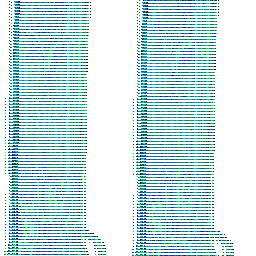
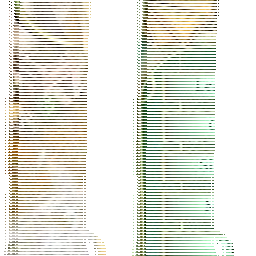
fix(ui): resolve pregame menu graphical corruption and support RGB444 DDT palettes

Changed region(s): [[0.5, 0.0, 0.9062, 1.0], [0.0, 0.0, 0.4062, 1.0]]

diff --git a/src/engine/engine_menus.cpp b/src/engine/engine_menus.cpp
@@ -1286,17 +1286,42 @@ size_t Engine::show_ui_layout(const std::string& layout_name) {
             return rt;
         }
 
-        // 2) Normalizar: NÃO converter \ → / aqui. O BarArchive::normalize()
-        //    já trata barras invertidas e barras normais de forma bidirecional.
-        //    Apenas garantir extensão .ddt.
+        // 2) Tentar carregar de PNG limpo em assets/titans_menu_parts/ para texturas ui_pregame
+        std::string png_name = name;
+        if (png_name.rfind("ui\\", 0) == 0 || png_name.rfind("ui/", 0) == 0) {
+            png_name = png_name.substr(3);
+        }
+        for (char& c : png_name) {
+            if (c == ' ' || c == '\\' || c == '/') c = '_';
+            else c = static_cast<char>(std::tolower(static_cast<unsigned char>(c)));
+        }
+        if (png_name.size() < 4 || png_name.substr(png_name.size() - 4) != ".png") {
+            png_name += ".png";
+        }
+
+        int pw = 0, ph = 0;
+        TextureHandle h = INVALID_TEXTURE;
+        if (png_name.rfind("ui_pregame", 0) == 0) {
+            h = load_png_asset("titans_menu_parts/" + png_name, &pw, &ph);
+            if (h != INVALID_TEXTURE) {
+                rt.handle = h;
+                rt.width = static_cast<uint32_t>(pw);
+                rt.height = static_cast<uint32_t>(ph);
+                texture_cache_[name] = h;
+                texture_dimensions_[name] = glm::ivec2(pw, ph);
+                LOGI("UI texture resolved from PNG asset: '%s' -> '%s' (handle=%u, %ux%u)",
+                     name.c_str(), png_name.c_str(), h, pw, ph);
+                return rt;
+            }
+        }
+
+        // 3) Normalizar e carregar de textures_bar_ (UI textures ficam em textures.bar, não data.bar)
         std::string normalized = name;
         if (normalized.size() < 4 ||
             normalized.substr(normalized.size() - 4) != ".ddt") {
             normalized += ".ddt";
         }
-
-        // 3) Carregar de textures_bar_ (UI textures ficam em textures.bar, não data.bar)
-        TextureHandle h = load_ddt_texture(normalized);
+        h = load_ddt_texture(normalized);
         if (h != INVALID_TEXTURE) {
             rt.handle = h;
             auto dit = texture_dimensions_.find(normalized);
@@ -1308,36 +1333,25 @@ size_t Engine::show_ui_layout(const std::string& layout_name) {
             texture_dimensions_[name] = texture_dimensions_[normalized];
             LOGI("UI texture resolved: '%s' -> '%s' (handle=%u, %ux%u)",
                  name.c_str(), normalized.c_str(), h, rt.width, rt.height);
+            return rt;
+        }
+
+        // 4) Fallback geral para qualquer outro PNG em assets
+        h = load_png_asset("titans_menu_parts/" + png_name, &pw, &ph);
+        if (h == INVALID_TEXTURE) {
+            h = load_png_asset(png_name, &pw, &ph);
+        }
+        if (h != INVALID_TEXTURE) {
+            rt.handle = h;
+            rt.width = static_cast<uint32_t>(pw);
+            rt.height = static_cast<uint32_t>(ph);
+            texture_cache_[name] = h;
+            texture_dimensions_[name] = glm::ivec2(pw, ph);
+            LOGI("UI texture resolved from PNG asset: '%s' -> '%s' (handle=%u, %ux%u)",
+                 name.c_str(), png_name.c_str(), h, pw, ph);
         } else {
-            // 4) Se não encontrou no BAR, tentar carregar de PNG em assets (ex: titans_menu_parts/)
-            std::string png_name = name;
-            if (png_name.rfind("ui\\", 0) == 0 || png_name.rfind("ui/", 0) == 0) {
-                png_name = png_name.substr(3);
-            }
-            for (char& c : png_name) {
-                if (c == ' ' || c == '\\' || c == '/') c = '_';
-                else c = static_cast<char>(std::tolower(static_cast<unsigned char>(c)));
-            }
-            if (png_name.size() < 4 || png_name.substr(png_name.size() - 4) != ".png") {
-                png_name += ".png";
-            }
-            int pw = 0, ph = 0;
-            h = load_png_asset("titans_menu_parts/" + png_name, &pw, &ph);
-            if (h == INVALID_TEXTURE) {
-                h = load_png_asset(png_name, &pw, &ph);
-            }
-            if (h != INVALID_TEXTURE) {
-                rt.handle = h;
-                rt.width = static_cast<uint32_t>(pw);
-                rt.height = static_cast<uint32_t>(ph);
-                texture_cache_[name] = h;
-                texture_dimensions_[name] = glm::ivec2(pw, ph);
-                LOGI("UI texture resolved from PNG asset: '%s' -> '%s' (handle=%u, %ux%u)",
-                     name.c_str(), png_name.c_str(), h, pw, ph);
-            } else {
-                LOGE("UI texture NOT FOUND: '%s' (tried '%s', '%s')",
-                     name.c_str(), normalized.c_str(), png_name.c_str());
-            }
+            LOGE("UI texture NOT FOUND: '%s' (tried '%s', '%s')",
+                 name.c_str(), normalized.c_str(), png_name.c_str());
         }
         return rt;
     };

diff --git a/src/assets/ddt_texture.cpp b/src/assets/ddt_texture.cpp
@@ -400,8 +400,22 @@ std::vector<uint8_t> DdtTexture::decode_rgba(uint32_t mip_level) const {
                 return {};
             }
             const size_t num_colors = palette.size() / 2;
+            uint16_t max_val = 0;
+            for (size_t c = 0; c < num_colors; ++c) {
+                uint16_t v = read_u16(palette.data() + c * 2);
+                if (v > max_val) max_val = v;
+            }
+            const bool is_rgb444 = (max_val <= 0x0FFF && max_val > 0x001F);
+
             const bool has_alpha4 = (alpha_bits == 4 && mip.data.size() >= pixel_count + (pixel_count + 1) / 2);
             const uint8_t* a4 = has_alpha4 ? (mip.data.data() + pixel_count) : nullptr;
+            bool a4_has_data = false;
+            if (a4) {
+                const size_t a4_len = (pixel_count + 1) / 2;
+                for (size_t k = 0; k < a4_len; ++k) {
+                    if (a4[k] != 0) { a4_has_data = true; break; }
+                }
+            }
 
             for (size_t i = 0; i < pixel_count; ++i) {
                 size_t idx = mip.data[i];
@@ -410,20 +424,22 @@ std::vector<uint8_t> DdtTexture::decode_rgba(uint32_t mip_level) const {
                 const uint16_t val = read_u16(palette.data() + idx * 2);
                 uint8_t* dst = output.data() + i * 4;
 
-                // 1. Expansão de cor RGB555 autêntica do AoM
-                expand_555(val, dst[0], dst[1], dst[2]);
+                if (is_rgb444) {
+                    dst[0] = ((val >> 8) & 0x0F) * 17;
+                    dst[1] = ((val >> 4) & 0x0F) * 17;
+                    dst[2] = (val & 0x0F) * 17;
+                } else {
+                    expand_555(val, dst[0], dst[1], dst[2]);
+                }
 
-                // 2. Alpha de 4 bits posicionado após a tabela de índices de pixels
-                if (a4) {
+                if (a4_has_data) {
                     const uint8_t packed_a = a4[i >> 1];
                     const uint8_t nib = (i & 1) ? (packed_a & 0x0F) : ((packed_a >> 4) & 0x0F);
                     dst[3] = nib * 17;
-                } else if (alpha_bits == 1) {
+                } else if (alpha_bits > 0 || idx == 0) {
                     dst[3] = (idx == 0 && val == 0) ? 0 : 255;
-                } else if (alpha_bits == 0) {
-                    dst[3] = 255;
                 } else {
-                    dst[3] = (idx == 0 && val == 0) ? 0 : 255;
+                    dst[3] = 255;
                 }
             }
             return output;

diff --git a/docs/SYMBOLS.md b/docs/SYMBOLS.md
@@ -215,7 +215,7 @@ Como usar: ache a função aqui e leia só o intervalo: `sed -n 'INI,FIMp' arqui
 - `parse_cub_file` 36-79 (44)
 - `load_cub_definition` 81-101 (21)
 
-## src/assets/ddt_texture.cpp (541 linhas)
+## src/assets/ddt_texture.cpp (557 linhas)
 - `read_u16` 25-28 (4)
 - `read_u32` 30-35 (6)
 - `expand_565` 37-41 (5)
@@ -231,8 +231,8 @@ Como usar: ache a função aqui e leia só o intervalo: `sed -n 'INI,FIMp' arqui
 - `block_size_for` 270-277 (8)
 - `DdtLoader::load` 281-357 (77)
 - `DdtLoader::load` 359-361 (3)
-- `DdtTexture::decode_rgba` 363-532 (170)
-- `DdtTexture::is_compressed` 534-538 (5)
+- `DdtTexture::decode_rgba` 363-548 (186)
+- `DdtTexture::is_compressed` 550-554 (5)
 
 ## src/assets/xmb_parser.cpp (402 linhas)
 - `utf16le_to_utf8` 14-49 (36)
@@ -443,9 +443,9 @@ Como usar: ache a função aqui e leia só o intervalo: `sed -n 'INI,FIMp' arqui
 - `Engine::handle_touch` 9-241 (233)
 - `Engine::adjust_camera_zoom` 243-245 (3)
 
-## src/engine/engine_internal.h (88 linhas)
+## src/engine/engine_internal.h (92 linhas)
 
-## src/engine/engine_menus.cpp (1595 linhas) **GRANDE**
+## src/engine/engine_menus.cpp (1609 linhas) **GRANDE**
 - `Engine::create_main_menu` 24-26 (3)
 - `Engine::create_campaign_selection_menu` 29-45 (17)
 - `Engine::create_game_list_menu` 48-71 (24)
@@ -547,16 +547,16 @@ Como usar: ache a função aqui e leia só o intervalo: `sed -n 'INI,FIMp' arqui
 - `Engine::create_single_player_menu` 1214-1216 (3)
 - `Engine::create_random_map_menu` 1218-1220 (3)
 - `Engine::load_ui_layout` 1224-1237 (14)
-- `Engine::show_ui_layout` 1239-1356 (118)
-- `Engine::show_techtree` 1358-1362 (5)
-- `Engine::show_tribute` 1364-1368 (5)
-- `Engine::show_sound_settings` 1370-1374 (5)
-- `Engine::create_cinematics_menu` 1378-1380 (3)
-- `Engine::create_history_menu` 1382-1384 (3)
-- `Engine::create_menu_screen` 1386-1415 (30)
-- `Engine::create_main_menu_from_xmb` 1417-1466 (50)
-- `Engine::create_main_menu_fallback` 1468-1533 (66)
-- `Engine::create_command_panel_from_xmb` 1535-1591 (57)
+- `Engine::show_ui_layout` 1239-1370 (132)
+- `Engine::show_techtree` 1372-1376 (5)
+- `Engine::show_tribute` 1378-1382 (5)
+- `Engine::show_sound_settings` 1384-1388 (5)
+- `Engine::create_cinematics_menu` 1392-1394 (3)
+- `Engine::create_history_menu` 1396-1398 (3)
+- `Engine::create_menu_screen` 1400-1429 (30)
+- `Engine::create_main_menu_from_xmb` 1431-1480 (50)
+- `Engine::create_main_menu_fallback` 1482-1547 (66)
+- `Engine::create_command_panel_from_xmb` 1549-1605 (57)
 
 ## src/engine/engine_multiplayer.cpp (399 linhas)
 - `Engine::open_multiplayer` 12-38 (27)

diff --git a/docs/CURRENT_STATE.md b/docs/CURRENT_STATE.md
@@ -11,7 +11,7 @@ Legenda: ✅ confirmado no código/captura · ❓ hipótese sem teste · ⬜ ain
 - ✅ `recreate_renderer()` chama `invalidate_gpu_handles()`: zera todos os handles de GPU (UI, malhas, terreno, água) evitando colisão de texturas.
 - ✅ `ui_layout.cpp`: lê `stateentry`, `hidden`, `statebutton`, `z`, `texturecoords` (UV atlas) e comandos nativos AoM (`gadgetReal`, `modeEnter`, `exit`); remove o prefixo `$$id$$` do texto.
 - ✅ `MyNativeActivity.java`: copia todos os archives base e expansão (`textures2.bar`, `data2.bar`, `models2.bar`, `scenarios2.bar`, `sounds2.bar`, `anim2.bar`, `godpowers2.bar`).
-- ✅ DDT formato 3 (PALETTE 256 cores): corrigido layout RGB555 e offset alpha 4-bit (`ddt_texture.cpp`).
+- ✅ DDT formato 3 (PALETTE): corrigido layout RGB444 (12-bit) e validação de alpha a4 (`ddt_texture.cpp`). Texturas `ui_pregame` priorizam PNGs limpos de `titans_menu_parts/` fatiados com transparência alfa autêntica (`engine_menus.cpp`).
 - ✅ LightingManager e arquivos `.lgt`: 11 presets de iluminação solar/ambiente integrados ao motor e empacotados no APK.
 - ✅ Cenários `.scn`/`.scx`: suporte unificado e resolução flexível de caminhos no `scenarios.bar`/`scenarios2.bar` e disco.
 - ✅ `ButtonSetManager` e `buttonsets.xmb`: decodificação e aplicação de texturas e UVs para botões (`buttonLong`, `checkBtn`, etc.) e empacotamento no APK.
